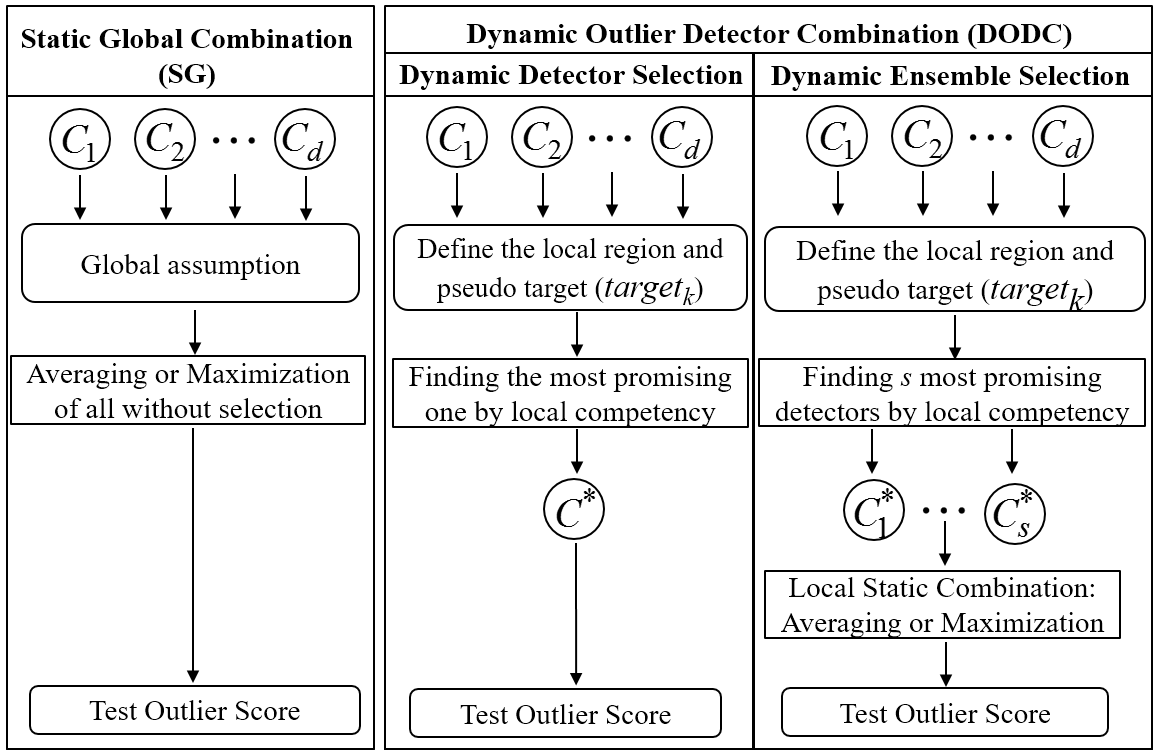
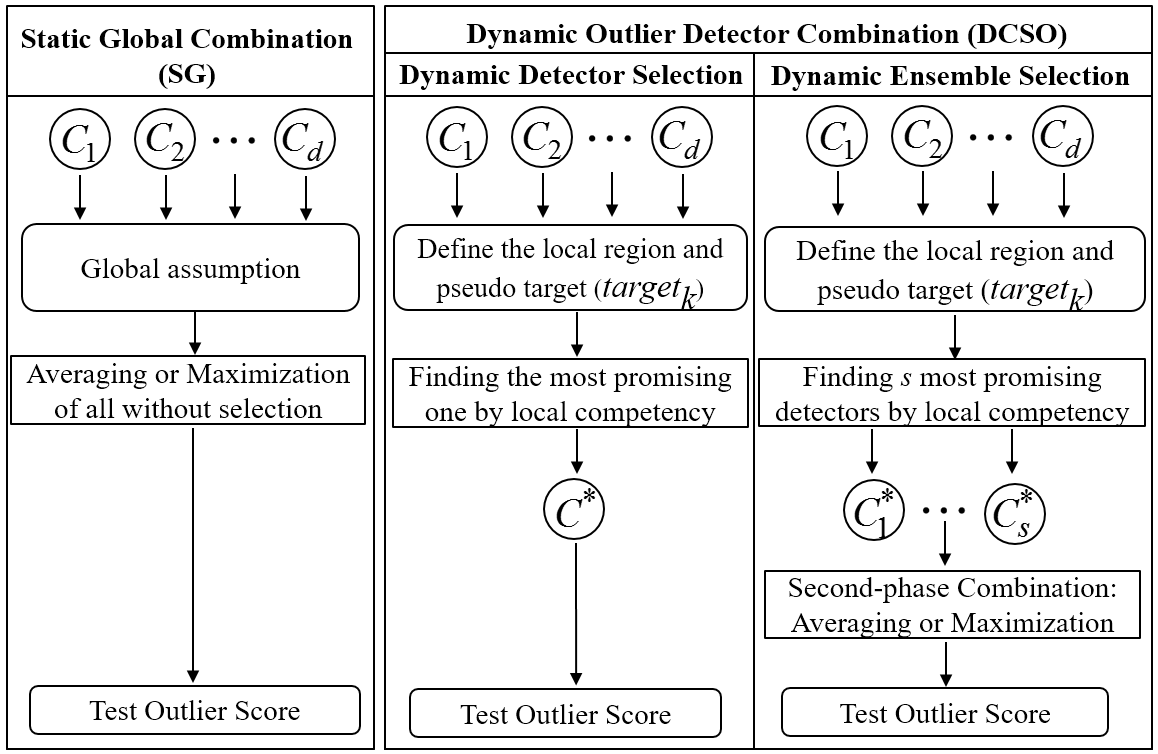
update framework name

diff --git a/README.md b/README.md
@@ -1,27 +1,26 @@
-# DODC (Dynamic Outlier Detector Combination)
+# DCSO (Dynamic Combination of Detector Scores for Outlier Ensembles)
 ### Supplementary materials: datasets, demo source codes and sample outputs.
 
-Y. Zhao and M.K. Hryniewicki, "DODC: Selecting and Combining Detector Scores Dynamically for Outlier Ensembles" *ACM KDD Workshop on Outlier Detection De-constructed (ODD)*, 2018. **Submitted, under review**.
+Y. Zhao and M.K. Hryniewicki, "DCSO: Dynamic Combination of Detector Scores for Outlier Ensembles" *ACM KDD Workshop on Outlier Detection De-constructed (ODD)*, 2018. **Submitted, under review**.
 
 ------------
 
 Additional notes:
 1. Three versions of codes are (going to be) provided:
-   1. **Demo version** (demo_lof.py and demo_knn.py) are created for the fast reproduction of the experiment results. The demo version only compares the baseline algorithms with DODC algorithms. The effect of parameters, e.g., the choice of *k*, are not included.
-   2.  **Full version** (tba)  will be released after moderate code cleanup and optimization. In contrast to the demo version, the full version also considers the impact of parameter setting. The full version is therefore relatively slow, which will be further optimized. It is noted the demo version is sufficient to prove the idea. We suggest to using the demo version while playing with DODC, during the full version is being optimized.
+   1. **Demo version** (demo_lof.py and demo_knn.py) are created for the fast reproduction of the experiment results. The demo version only compares the baseline algorithms with DCSO algorithms. The effect of parameters, e.g., the choice of *k*, are not included.
+   2.  **Full version** (tba)  will be released after moderate code cleanup and optimization. In contrast to the demo version, the full version also considers the impact of parameter setting. The full version is therefore relatively slow, which will be further optimized. It is noted the demo version is sufficient to prove the idea. We suggest to using the demo version while playing with DCSO, during the full version is being optimized.
    3. **Production version** (tba) will be released with full optimization and testing as a framework. The purpose of this version is to be used in real applications, which should require fewer dependencies and faster execution.
 3. It is understood that there are **small variations** in the results due to the random process, e.g., spliting the training and test sets. Thus, running demo codes would only result in similar results to the paper but not the exactly same results.
 ------------
 
 ##  Introduction
-DODC (Dynamic Outlier Detector Combination) is proposed, demonstrated and assessed for the dynamic selection of most competent base detectors for each test object with an emphasis on data locality. The proposed DODC framework first defines the local region of a test instance by its k nearest neighbors, and then identifies most performing base detectors within the local region.
+In this paper, an unsupervised outlier detector combination framework called DCSO (Dynamic Combination of Detector Scores for Outlier Ensembles) is proposed, demonstrated and assessed for the dynamic selection of most competent base detectors, with an emphasis on data locality. The proposed DCSO framework first defines the local region of a test instance by its k nearest neighbors and then identifies the top-performing base detectors within the local region.
+As classification ensembles, DCSO has two key stages. In the Generation stage, the chosen base detector algorithm is initialized with distinct parameters to build a pool of diversified detectors, and all are then fitted on the entire training dataset. In the Combination stage, DCSO picks the most competent detector in the local region defined by the test instance. Finally, the selected detector is used to predict the outlier score for the test instance.
 
-DODC has two key stages as well. In Generation stage, the chosen base detector method, e.g., LOF, is initialized with distinct parameters to build a pool of diversified detectors, and all are then fitted on the entire training data. In Selection stage, DODC picks the most competent base detector in the local region defined by the test instance. Finally, the selected detector is used to predict the outlier score for the test instance.
-
-![Flowchart](https://github.com/yzhao062/DODC/blob/master/md_figs/flowchart.png)
+![Flowchart](https://github.com/yzhao062/DCSO/blob/master/md_figs/flowchart.png)
 
 ## Dependency
-The experiement codes are writted in Python 3.6 and built on a number of Python packages:
+The experiment codes are writted in Python 3.6 and built on a number of Python packages:
 - numpy>=1.13
 - scipy>=0.19
 - scikit_learn>=0.19
@@ -65,14 +64,14 @@ The difference between **demo_lof.py** and **demo_knn.py** is simply at the base
 
 The results of **demo_lof.py** and **demo_knn.py**  are presented below. Table 1 and 2 illustrate the results when **LOF** is used as the base detector, while Table 3 and 4 are based when ***k*NN** is used as the base detector. The highest score is highlighted in **bold**, while the lowest is marked with an **asterisk (*)**.
 
-![ LOF_ROC](https://github.com/yzhao062/DODC/blob/master/md_figs/lof_roc.png)
-![ LOF_PRC](https://github.com/yzhao062/DODC/blob/master/md_figs/lof_prc.png)
-![ KNN_ROC](https://github.com/yzhao062/DODC/blob/master/md_figs/knn_roc.png)
-![ KNN_PRC](https://github.com/yzhao062/DODC/blob/master/md_figs/knn_prc.png)
+![ LOF_ROC](https://github.com/yzhao062/DCSO/blob/master/md_figs/lof_roc.png)
+![ LOF_PRC](https://github.com/yzhao062/DCSO/blob/master/md_figs/lof_prc.png)
+![ KNN_ROC](https://github.com/yzhao062/DCSO/blob/master/md_figs/knn_roc.png)
+![ KNN_PRC](https://github.com/yzhao062/DCSO/blob/master/md_figs/knn_prc.png)
 
 ## Visualizations (based on demo_lof.py )
-The figure below visually compares the performance of SG and DODC methods on **Cardio**, **Thyroid** and **Letter** using t-distributed stochastic neighbor embedding (t-SNE). Normal and outlying points are denoted as **orange dots** and **red squares**, respectively. The normal points that are only correctly detected by SG methods are named SG_N (** green triangle_down**), and only by DODC are named as DODC_N (**blue cross sign**). Similarly, outliers are denoted as SG_N (**green triangle_up**) and DODC_N (**blue plus sign**), given they can only be detected by SG or DODC methods, respectively.
+The figure below visually compares the performance of SG and DCSO methods on **Cardio**, **Thyroid** and **Letter** using t-distributed stochastic neighbor embedding (t-SNE). Normal and outlying points are denoted as **orange dots** and **red squares**, respectively. The normal points that are only correctly detected by SG methods are named SG_N (** green triangle_down**), and only by DCSO are named as DCSO_N (**blue cross sign**). Similarly, outliers are denoted as SG_N (**green triangle_up**) and DCSO_N (**blue plus sign**), given they can only be detected by SG or DCSO methods, respectively.
 
-![ tsne](https://github.com/yzhao062/DODC/blob/master/md_figs/tsne.png)
+![ tsne](https://github.com/yzhao062/DCSO/blob/master/md_figs/tsne.png)
 
-Full visulization could be found at [t-SNE](https://github.com/yzhao062/DODC/tree/master/viz "t-SNE"). To replicate the  visualization, please use "**viz_tsne.py**". It is noted this script is not fully optimized and could be cubersome.
+Full visulization could be found at [t-SNE](https://github.com/yzhao062/DCSO/tree/master/viz "t-SNE"). To replicate the  visualization, please use "**viz_tsne.py**". It is noted this script is not fully optimized and could be cubersome.
